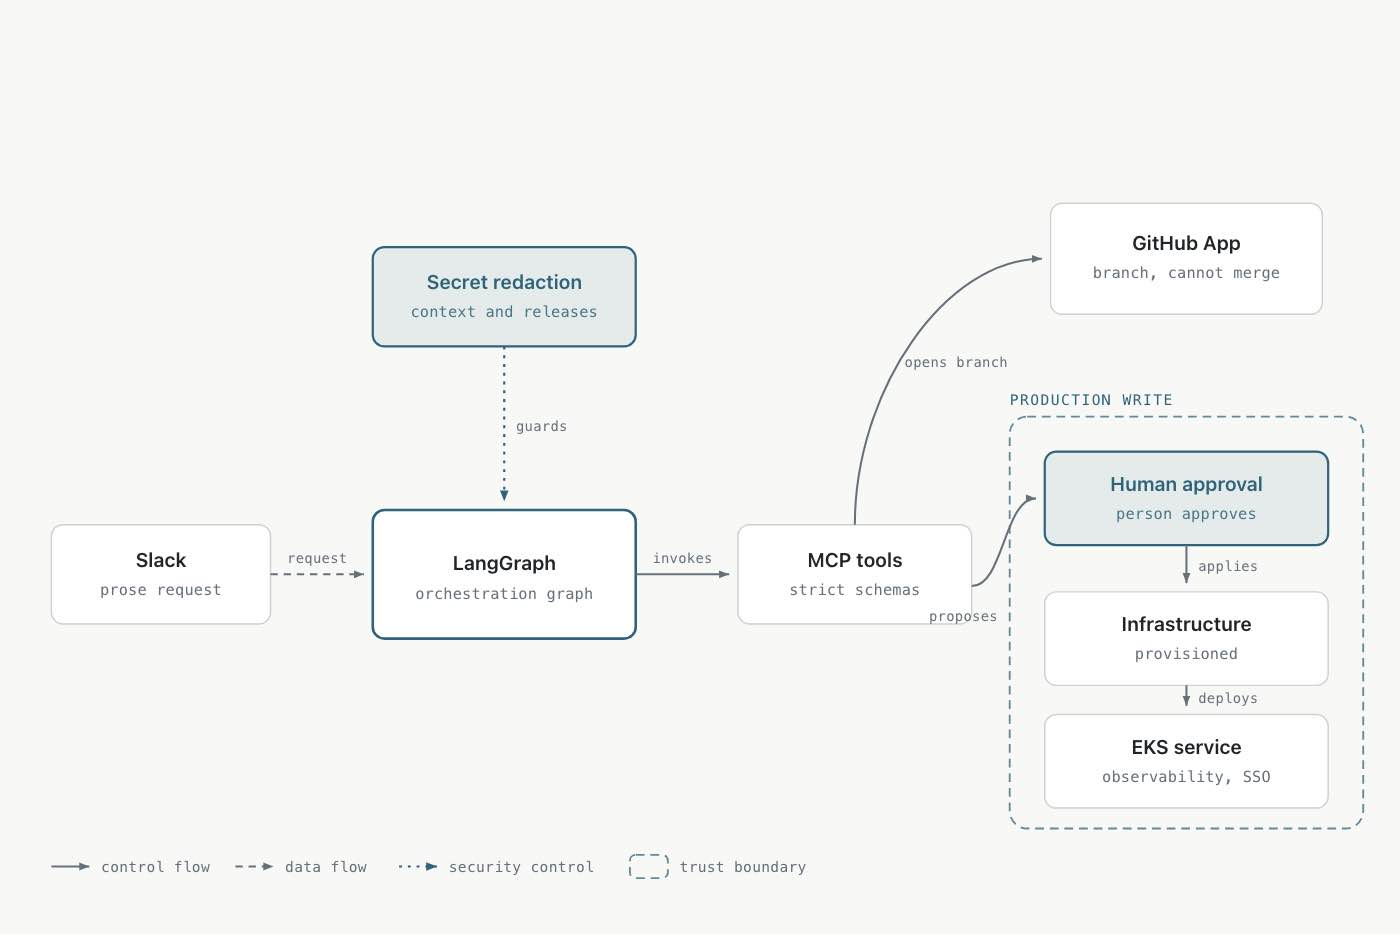
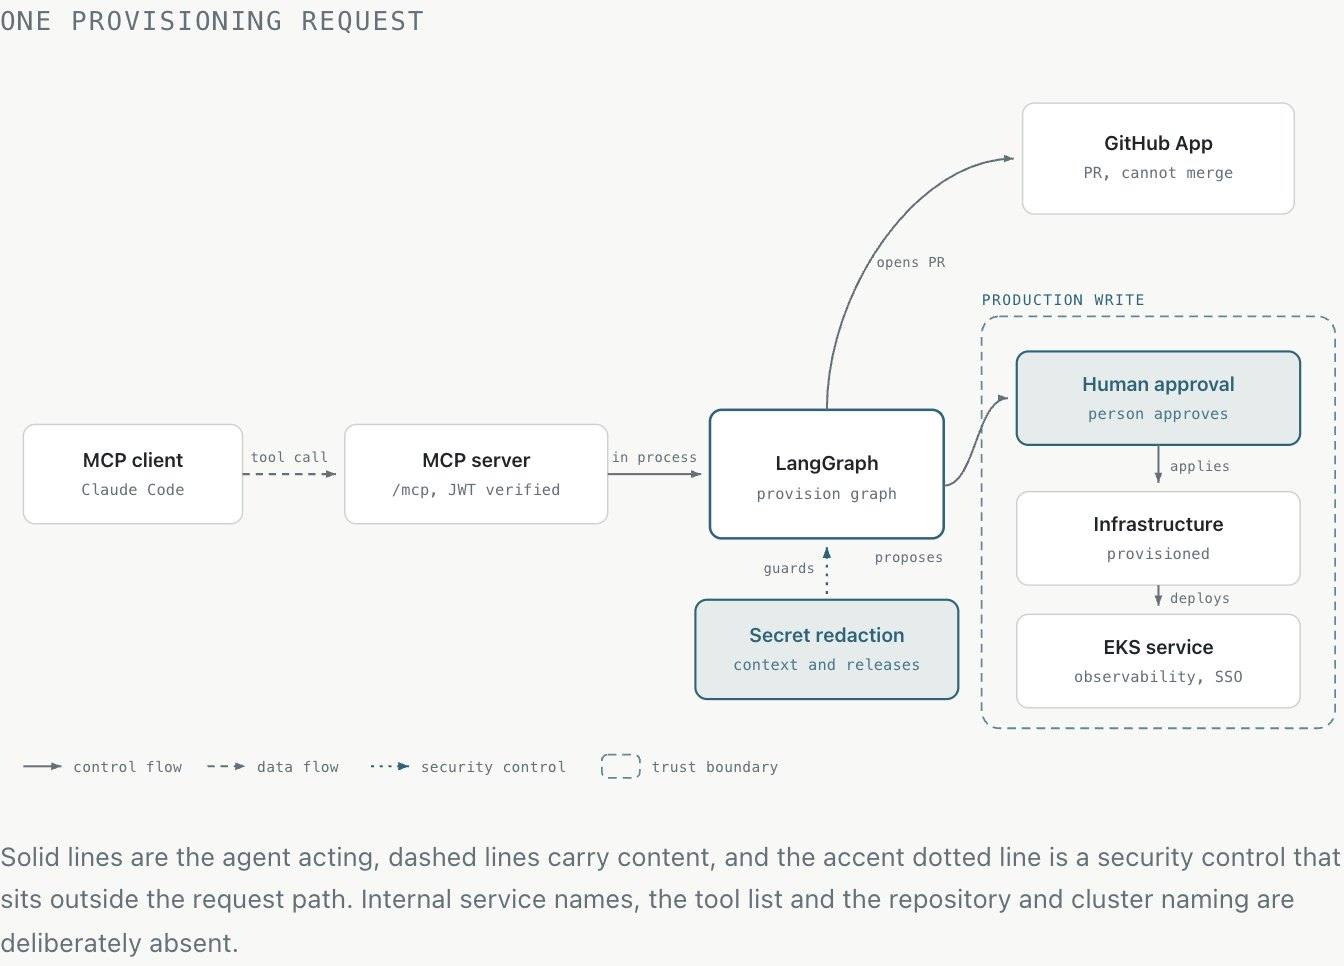
fix: MCP is the agent's inbound surface, not its tool layer
Verified against the source at platform-infra-devops-agents. The page had
the architecture inverted and the request interface wrong.

MCP is not an outbound integration layer the graph reaches internal systems
through. It is the inbound surface: an MCP server is mounted on the agent's
own FastAPI app, a client calls a tool, and the tool runs the LangGraph
graph in process. A plain HTTP route reaches the same runner, so neither
path can hold its own idea of who the caller is. Tools split by blast
radius, a read-only preview and an apply that opens the PR.

Slack was never the request interface. core/notify.py is an outbound
chat.postMessage seam for offboard-PR and reclamation notices; there is no
listener, slash command or Events API. Removed from the diagram, the prose,
the stack list, the description and the About page, and the support-rotation
cross-reference no longer calls it "the Slack provisioning agent".

Diagram: relabelled the left chain to MCP client -> MCP server -> LangGraph,
moved secret redaction below the graph it guards so the opens-PR curve
crosses nothing, and tightened the viewBox to the content that is left.
Fixed a pre-existing collision where "proposes" sat on the orchestration box.

diff --git a/content/work/infrastructure-agent.md b/content/work/infrastructure-agent.md
@@ -8,8 +8,8 @@ problem: "Standing up a new game environment took about two days of coordinated 
 role: "Designed and built it, including the security model and the release gate"
 scale: "50 environments provisioned in three months"
 outcome: "About 30 seconds end to end, at roughly twelve cents per run on a warm cache"
-stack: ["LangGraph", "MCP", "Slack", "EKS", "GitHub Apps", "Okta"]
-description: "A LangGraph and MCP agent that provisions a complete game environment from Slack in about 30 seconds, and the security model that makes it safe to point at production."
+stack: ["LangGraph", "MCP", "FastAPI", "EKS", "GitHub Apps", "Okta"]
+description: "A LangGraph agent, reached over MCP, that provisions a complete game environment in about 30 seconds, and the security model that makes it safe to point at production."
 ---
 
 ## Context
@@ -29,8 +29,9 @@ Whatever I built would hold credentials for real infrastructure. An agent with c
 write access can make a bad change to production, and that's the failure mode worth
 designing around.
 
-It also had to be used by people who weren't going to learn a new tool. That pointed at
-Slack, where the requests were already being made in prose.
+It also had to be usable without anyone learning a new tool. That pointed at MCP: the
+tools show up inside the client an engineer already has open, so there was no interface of
+mine for anyone to adopt.
 
 ## My role
 
@@ -39,38 +40,48 @@ harness, and the cost model.
 
 ## What it does
 
-A request in Slack produces the repository, provisions the infrastructure, and deploys a
-working baseline service on EKS with observability and Okta SSO already wired up. That
-takes about 30 seconds. It ran 50 times in three months.
+One request produces the repository, provisions the infrastructure, and deploys a working
+baseline service on EKS with observability and Okta SSO already wired up. That takes
+about 30 seconds. It ran 50 times in three months.
 
-Underneath it's a LangGraph graph reaching internal systems over MCP. MCP is doing real
-work there: the tools the agent can call are described once and consumed by the model, so
-each integration isn't hand-written glue that drifts from the thing it wraps.
+Underneath it's a LangGraph graph, and MCP is how you reach it. The agent runs as a
+FastAPI service with an MCP server mounted on it, so an MCP client (Claude Code, in
+practice) calls a tool and the tool runs the graph in the same process. A plain HTTP route
+reaches the same runner for anything that isn't an MCP client. Both paths share one entry
+point, so neither can acquire its own idea of who the caller is.
+
+Describing the surface once in MCP terms is what makes that worth doing: the tools are
+declared with their schemas and consumed by the model directly, so no integration is
+hand-written glue that drifts from the thing it wraps. The tools split by blast radius,
+a read-only preview that plans and opens nothing, and an apply that opens the pull
+request.
 
 {{< architecture svg="infrastructure-agent" label="One provisioning request" caption="Solid lines are the agent acting, dashed lines carry content, and the accent dotted line is a security control that sits outside the request path. Internal service names, the tool list and the repository and cluster naming are deliberately absent." >}}
-[Request] Slack
--> prose request
-[Orchestration] LangGraph*
--> invokes
-[Tools] MCP tools*, strict schemas
+[Request] MCP client*, Claude Code
+-> tool call
+[Surface] MCP server*, /mcp, JWT verified, scope checked, audited
+-> runs in process
+[Orchestration] LangGraph*, provision graph
 !! Secret redaction :: Guards what the agent reads into context and what its releases ship. Not a stage a request passes through.
--> opens a branch
-[Repository] GitHub App, branch only, cannot merge
+-> opens a PR
+[Repository] GitHub App, PR only, cannot merge
 -> proposes
 [Production write boundary] Human approval*
 -> applies
 [Behind the gate] Infrastructure, EKS service, observability, Okta SSO
 ---
-Slack carries a prose request to the LangGraph orchestration graph, which decides
-which tools to call and in what order. The MCP tools reach internal systems and each
-carries a strict schema, so the agent cannot invent a call. Tool calls open a branch
-through a GitHub App that can create branches but cannot merge or bypass branch
-protection, which is why it sits outside the production write boundary. The agent then
-proposes a change to the human approval gate on that boundary; a person approves, and
-only then does the change reach infrastructure, followed by the baseline service
-deployment on EKS with observability and Okta SSO. Secret redaction guards the
-orchestration layer's inputs and its releases and is not a stage a request passes
-through.
+An MCP client calls a tool on the MCP server mounted on the agent's own API. The server
+verifies the caller's token, checks the required scope, and writes an audit record for
+every call including the ones it refuses. The tool then runs the LangGraph provision
+graph in the same process, which is also what the plain HTTP route onto that graph does,
+so the caller's identity cannot differ between the two paths. Each tool carries a strict
+schema, so the agent cannot invent a call, and they are split by blast radius: a
+read-only preview that plans and opens nothing, and an apply that opens the pull request.
+The pull request is opened by a GitHub App that cannot merge or bypass branch protection,
+which is why it sits outside the production write boundary. The agent proposes, a person
+approves, and only then does the change reach infrastructure, followed by the baseline
+service deployment on EKS with observability and Okta SSO. Secret redaction guards the
+agent's inputs and its releases and is not a stage a request passes through.
 {{< /architecture >}}
 
 ## Choosing the framework

diff --git a/content/about.md b/content/about.md
@@ -32,8 +32,8 @@ migration, and was technical lead for four engineers at Wrapbook.
 I've never stopped building. At Fortis I designed the Kubernetes platform end to end:
 networking, GitOps, autoscaling, service mesh, secrets, policy, observability, DNS and
 ingress. I implemented Istio Ambient Mode with waypoint proxies, which is what made
-zero-downtime cutovers from ECS to EKS possible. I built a LangGraph and MCP agent that
-provisions a complete game environment from Slack.
+zero-downtime cutovers from ECS to EKS possible. I built a LangGraph agent, reached over
+MCP, that provisions a complete game environment.
 
 At Prodigy Education I owned platform architecture, reliability and cost for infrastructure
 serving around 10 million monthly users with peaks above 150,000 concurrent. I led the

diff --git a/content/work/support-engineering-rotation.md b/content/work/support-engineering-rotation.md
@@ -144,7 +144,7 @@ My last piece of work at Fortis was a proof-of-concept evaluation of kagent, whi
 agents as Kubernetes resources with sandboxed execution. The fit here is what interested
 me: an agent that picks up an alert, gathers the context a human would gather and attaches
 it to the ticket changes what the support engineer starts from. The propose-and-approve
-boundary from the Slack provisioning agent applies, because triage that writes to a cluster
+boundary from the provisioning agent applies, because triage that writes to a cluster
 on its own is a much worse idea.
 
 That stayed a proof of concept, so this is a direction I'd started on and not a result.
